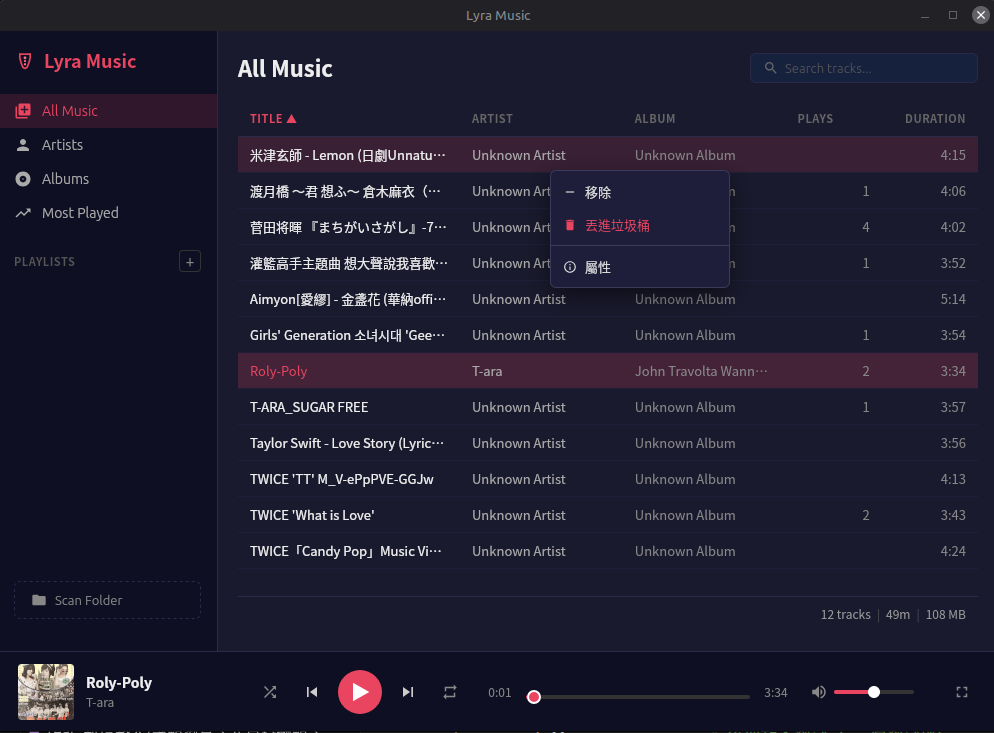
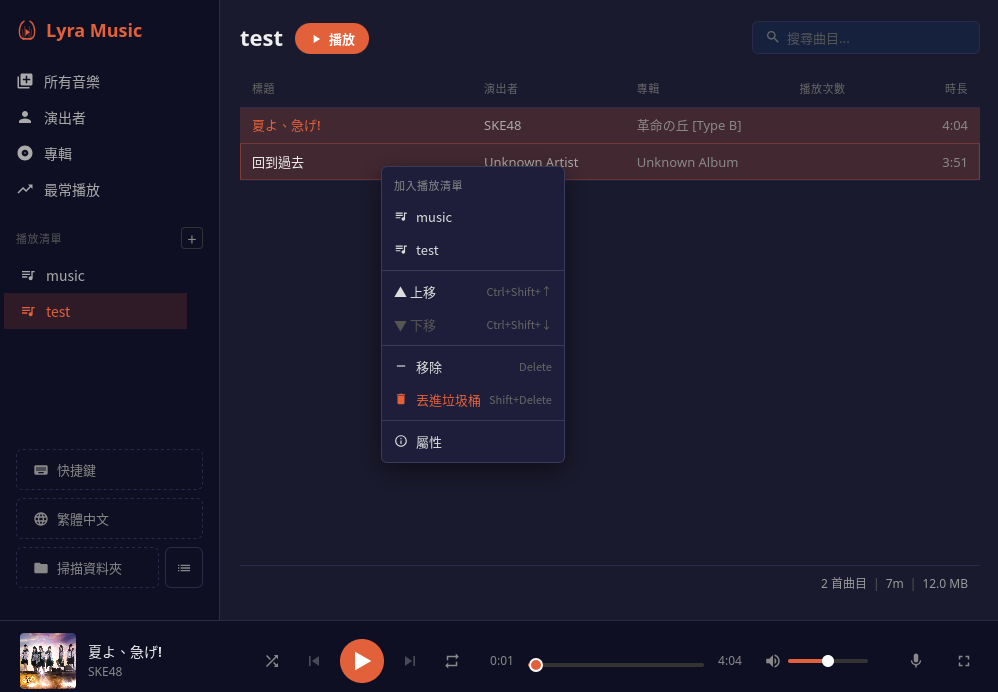
docs: 更新 README 的相依版本與截圖，移除容易過時的數量
rodio 0.22 → 0.23、notify 8 → 9。測試檔與 Tauri command 的數量每加
一個功能就過時（三處都已不正確，且彼此矛盾），改為不寫數字。
元件目錄清單補上 Help/。

三張截圖換成目前的介面（繁體中文、右鍵選單的快捷鍵提示）。

diff --git a/README.en.md b/README.en.md
@@ -13,7 +13,7 @@ English | [繁體中文](README.md)
 [![Svelte](https://img.shields.io/badge/Svelte-5-FF3E00.svg)](https://svelte.dev/)
 [![TypeScript](https://img.shields.io/badge/TypeScript-6-3178c6.svg)](https://www.typescriptlang.org/)
 [![Rust](https://img.shields.io/badge/Rust-dea584.svg)](https://www.rust-lang.org/)
-[![rodio](https://img.shields.io/badge/rodio-0.22-e2603a.svg)](https://github.com/RustAudio/rodio)
+[![rodio](https://img.shields.io/badge/rodio-0.23-e2603a.svg)](https://github.com/RustAudio/rodio)
 
 A desktop music player built with Tauri 2 + Svelte 5 + Rust. Fully local playback; the core never depends on an online service. The only network feature is the user-triggered online lyrics search.
 
@@ -51,12 +51,12 @@ Further reading: [Why Rust](docs/why-rust.md), [Tauri 2 Introduction](docs/tauri
 | Build Tool        | Vite 8                     | Dev server and frontend bundling                                                       |
 | Desktop Framework | Tauri 2                    | Native windows, system tray, IPC communication                                         |
 | Backend           | Rust                       | Audio processing, file scanning, database operations                                   |
-| Audio Engine      | rodio 0.22                 | Pure Rust implementation, no need for GStreamer, MPV, or other system audio frameworks |
+| Audio Engine      | rodio 0.23                 | Pure Rust implementation, no need for GStreamer, MPV, or other system audio frameworks |
 | Metadata Parsing  | lofty 0.25                 | Read/write ID3/Vorbis/MP4 tags and cover art                                           |
-| File Watching     | notify 8                   | Real-time folder change detection, automatic music library updates                     |
+| File Watching     | notify 9                   | Real-time folder change detection, automatic music library updates                     |
 | Database          | SQLite (rusqlite, bundled) | WAL mode, schema migration management                                                  |
 | Online Lyrics     | ureq 3 (rustls)            | Manual LRCLIB API search, synced lyrics cached as `.lrc` sidecar                       |
-| Testing           | Vitest + cargo test        | 25 frontend test files, 20 backend integration tests                                   |
+| Testing           | Vitest + cargo test        | Frontend unit tests, backend integration tests                                         |
 
 ## Key Features
 
@@ -68,7 +68,7 @@ Further reading: [Why Rust](docs/why-rust.md), [Tauri 2 Introduction](docs/tauri
 
 **Mini Player + System Tray** -- Press `m` to switch to a compact 420x80 window (always-on-top). System tray supports Play/Pause, previous, next, show window, and quit. Closing the window automatically minimizes to the system tray.
 
-**Tauri 2 + Svelte 5 + Rust architecture** -- Frontend and backend communicate through 43 Tauri commands via IPC. The frontend manages state with Svelte 5 runes, while the backend handles audio decoding, file I/O, and database operations in Rust.
+**Tauri 2 + Svelte 5 + Rust architecture** -- Frontend and backend communicate through Tauri commands via IPC. The frontend manages state with Svelte 5 runes, while the backend handles audio decoding, file I/O, and database operations in Rust.
 
 Other features:
 
@@ -128,9 +128,9 @@ Build artifacts are located in `src-tauri/target/release/bundle/`, supporting de
 ## Testing
 
 ```bash
-npm run test                    # Frontend unit tests (Vitest, 25 test files)
+npm run test                    # Frontend unit tests (Vitest)
 npm run check                   # Type checking
-cd src-tauri && cargo test      # Backend integration tests (20 test files, audio tests skipped by default)
+cd src-tauri && cargo test      # Backend integration tests (audio tests skipped by default)
 cd src-tauri && cargo test --features audio-tests  # With audio tests (requires audio device)
 npm run quality                 # Code quality checks (ESLint + Prettier + Stylelint + Clippy + rustfmt)
 ```
@@ -180,7 +180,7 @@ All shortcuts are disabled when an input field is focused.
 src/                              # Frontend (Svelte 5 + TypeScript)
   lib/
     api/                          # Tauri IPC call wrappers (playback, library, playlist)
-    components/                   # UI components (Player, Library, Browse, Playlist, Sidebar, Settings)
+    components/                   # UI components (Player, Library, Browse, Playlist, Sidebar, Settings, Help)
     state/                        # Reactive state management (Svelte 5 runes)
     logic/                        # Pure function logic (playback modes, shortcuts, formatting, selection, sorting)
     i18n/                         # UI translations (typed dictionaries, Traditional Chinese + English)
@@ -191,9 +191,9 @@ src-tauri/                        # Backend (Rust)
     scanner/                      # Folder scanning & file watching (walkdir, notify)
     metadata/                     # Metadata read/write & cover art caching (lofty)
     storage/                      # SQLite database (schema v9, WAL mode)
-    commands/                     # Tauri command handlers (42 IPC interfaces)
+    commands/                     # Tauri command handlers (IPC interfaces)
     models/                       # Data structure definitions (track, playlist, player_state)
-  tests/                          # 20 integration tests
+  tests/                          # Integration tests
 ```
 
 ## Logs

diff --git a/README.md b/README.md
@@ -13,7 +13,7 @@
 [![Svelte](https://img.shields.io/badge/Svelte-5-FF3E00.svg)](https://svelte.dev/)
 [![TypeScript](https://img.shields.io/badge/TypeScript-6-3178c6.svg)](https://www.typescriptlang.org/)
 [![Rust](https://img.shields.io/badge/Rust-dea584.svg)](https://www.rust-lang.org/)
-[![rodio](https://img.shields.io/badge/rodio-0.22-e2603a.svg)](https://github.com/RustAudio/rodio)
+[![rodio](https://img.shields.io/badge/rodio-0.23-e2603a.svg)](https://github.com/RustAudio/rodio)
 
 基於 Tauri 2 + Svelte 5 + Rust 的桌面音樂播放器。純本地播放，核心功能不依賴任何網路服務；唯一的網路功能是使用者手動觸發的線上歌詞搜尋。
 
@@ -51,12 +51,12 @@ AppImage 版本已收錄於 [AppImageHub](https://appimage.github.io/Lyra_Music/
 | 建置工具   | Vite 8                     | 開發伺服器與前端打包                                   |
 | 桌面框架   | Tauri 2                    | 原生視窗、系統匣、IPC 通訊                             |
 | 後端       | Rust                       | 音訊處理、檔案掃描、資料庫操作                         |
-| 音訊引擎   | rodio 0.22                 | 純 Rust 實作，不需要安裝 GStreamer、MPV 等系統音訊框架 |
+| 音訊引擎   | rodio 0.23                 | 純 Rust 實作，不需要安裝 GStreamer、MPV 等系統音訊框架 |
 | 元資料解析 | lofty 0.25                 | 讀寫 ID3/Vorbis/MP4 標籤與封面圖                       |
-| 檔案監視   | notify 8                   | 即時偵測資料夾變化，自動更新音樂庫                     |
+| 檔案監視   | notify 9                   | 即時偵測資料夾變化，自動更新音樂庫                     |
 | 資料庫     | SQLite (rusqlite, bundled) | WAL mode，schema migration 管理                        |
 | 線上歌詞   | ureq 3 (rustls)            | LRCLIB API 手動搜尋，同步歌詞快取為 `.lrc` sidecar     |
-| 測試       | Vitest + cargo test        | 前端 25 個測試檔、後端 20 個整合測試                   |
+| 測試       | Vitest + cargo test        | 前端單元測試、後端整合測試                             |
 
 ## 主要功能
 
@@ -68,7 +68,7 @@ AppImage 版本已收錄於 [AppImageHub](https://appimage.github.io/Lyra_Music/
 
 **Mini Player + System Tray** -- 按 `m` 切換為 420x80 精簡視窗（always-on-top）。系統匣支援 Play/Pause、上一首、下一首、顯示視窗、退出。關閉視窗時自動最小化到系統匣。
 
-**Tauri 2 + Svelte 5 + Rust 架構** -- 前後端透過 43 個 Tauri commands 進行 IPC 通訊。前端以 Svelte 5 runes 管理狀態，後端以 Rust 處理音訊解碼、檔案 I/O、資料庫操作。
+**Tauri 2 + Svelte 5 + Rust 架構** -- 前後端透過 Tauri commands 進行 IPC 通訊。前端以 Svelte 5 runes 管理狀態，後端以 Rust 處理音訊解碼、檔案 I/O、資料庫操作。
 
 其他功能：
 
@@ -128,9 +128,9 @@ npm run tauri build   # 正式建置
 ## 測試
 
 ```bash
-npm run test                    # 前端單元測試 (Vitest, 25 個測試檔)
+npm run test                    # 前端單元測試 (Vitest)
 npm run check                   # 類型檢查
-cd src-tauri && cargo test      # 後端整合測試 (20 個測試檔，音訊測試預設跳過)
+cd src-tauri && cargo test      # 後端整合測試 (音訊測試預設跳過)
 cd src-tauri && cargo test --features audio-tests  # 含音訊測試 (需音訊裝置)
 npm run quality                 # 程式碼品質檢查 (ESLint + Prettier + Stylelint + Clippy + rustfmt)
 ```
@@ -180,7 +180,7 @@ npm run quality                 # 程式碼品質檢查 (ESLint + Prettier + Sty
 src/                              # 前端 (Svelte 5 + TypeScript)
   lib/
     api/                          # Tauri IPC 呼叫封裝 (playback, library, playlist)
-    components/                   # UI 元件 (Player, Library, Browse, Playlist, Sidebar, Settings)
+    components/                   # UI 元件 (Player, Library, Browse, Playlist, Sidebar, Settings, Help)
     state/                        # 響應式狀態管理 (Svelte 5 runes)
     logic/                        # 純函式邏輯 (播放模式、快捷鍵、格式化、選取、排序)
     i18n/                         # 介面翻譯 (型別字典，繁體中文 + 英文)
@@ -191,9 +191,9 @@ src-tauri/                        # 後端 (Rust)
     scanner/                      # 資料夾掃描與檔案監視 (walkdir, notify)
     metadata/                     # 元資料讀寫與封面快取 (lofty)
     storage/                      # SQLite 資料庫 (schema v9, WAL mode)
-    commands/                     # Tauri command handlers (42 個 IPC 介面)
+    commands/                     # Tauri command handlers (IPC 介面)
     models/                       # 資料結構定義 (track, playlist, player_state)
-  tests/                          # 20 個整合測試
+  tests/                          # 整合測試
 ```
 
 ## 日誌

diff --git a/CLAUDE.md b/CLAUDE.md
@@ -58,7 +58,7 @@ Frontend (Svelte 5)  ──IPC (invoke/listen)──  Backend (Rust/Tauri 2)
 - `lib/api/` — Tauri IPC 封裝（`playback.ts`、`library.ts`、`playlist.ts`）
 - `lib/state/` — Svelte 5 runes 響應式狀態（透過 `getPlayerState()` 等取得單例）
 - `lib/logic/` — 抽離的純函式，便於測試（播放動作、斷點續播、鍵盤快捷鍵、排序、選取、虛擬捲動、格式化）
-- `lib/components/` — 依功能分組的 UI 元件（Player/、Library/、Browse/、Playlist/、Sidebar/、Settings/）
+- `lib/components/` — 依功能分組的 UI 元件（Player/、Library/、Browse/、Playlist/、Sidebar/、Settings/、Help/）
 - `lib/i18n/` — 自製型別字典（零相依，繁中 + 英文）。`locales/en.ts` 為基準並定義 `MessageKey`，`locales/zh-TW.ts` 型別為 `Messages`（缺 key 編譯失敗）；`locale.ts` 為純函式（偵測、儲存、插值、`Intl.PluralRules` 複數）；`index.svelte.ts` 持有 `$state` 語系並匯出 `t()`。語系順序：`localStorage`（`lyra-locale`）→ `navigator.languages`（任何 `zh*` → zh-TW）→ en。**使用者可見字串一律走 `t(key)`，不可寫死**；`t()` 讀響應式狀態，須在 template、`$derived` 或函式內呼叫，不可在模組／元件頂層存成常數（切換語言後不會更新）。`notifyCritical` 第一個參數是 `action.*` 的 key。系統匣選單與 Rust `AppError` 前綴不在 i18n 範圍內（維持英文）
 - `lib/types/index.ts` — 所有 TypeScript 介面（Track、Playlist 等）
 - `lib/__mocks__/` — 測試用 Tauri/dialog mock
